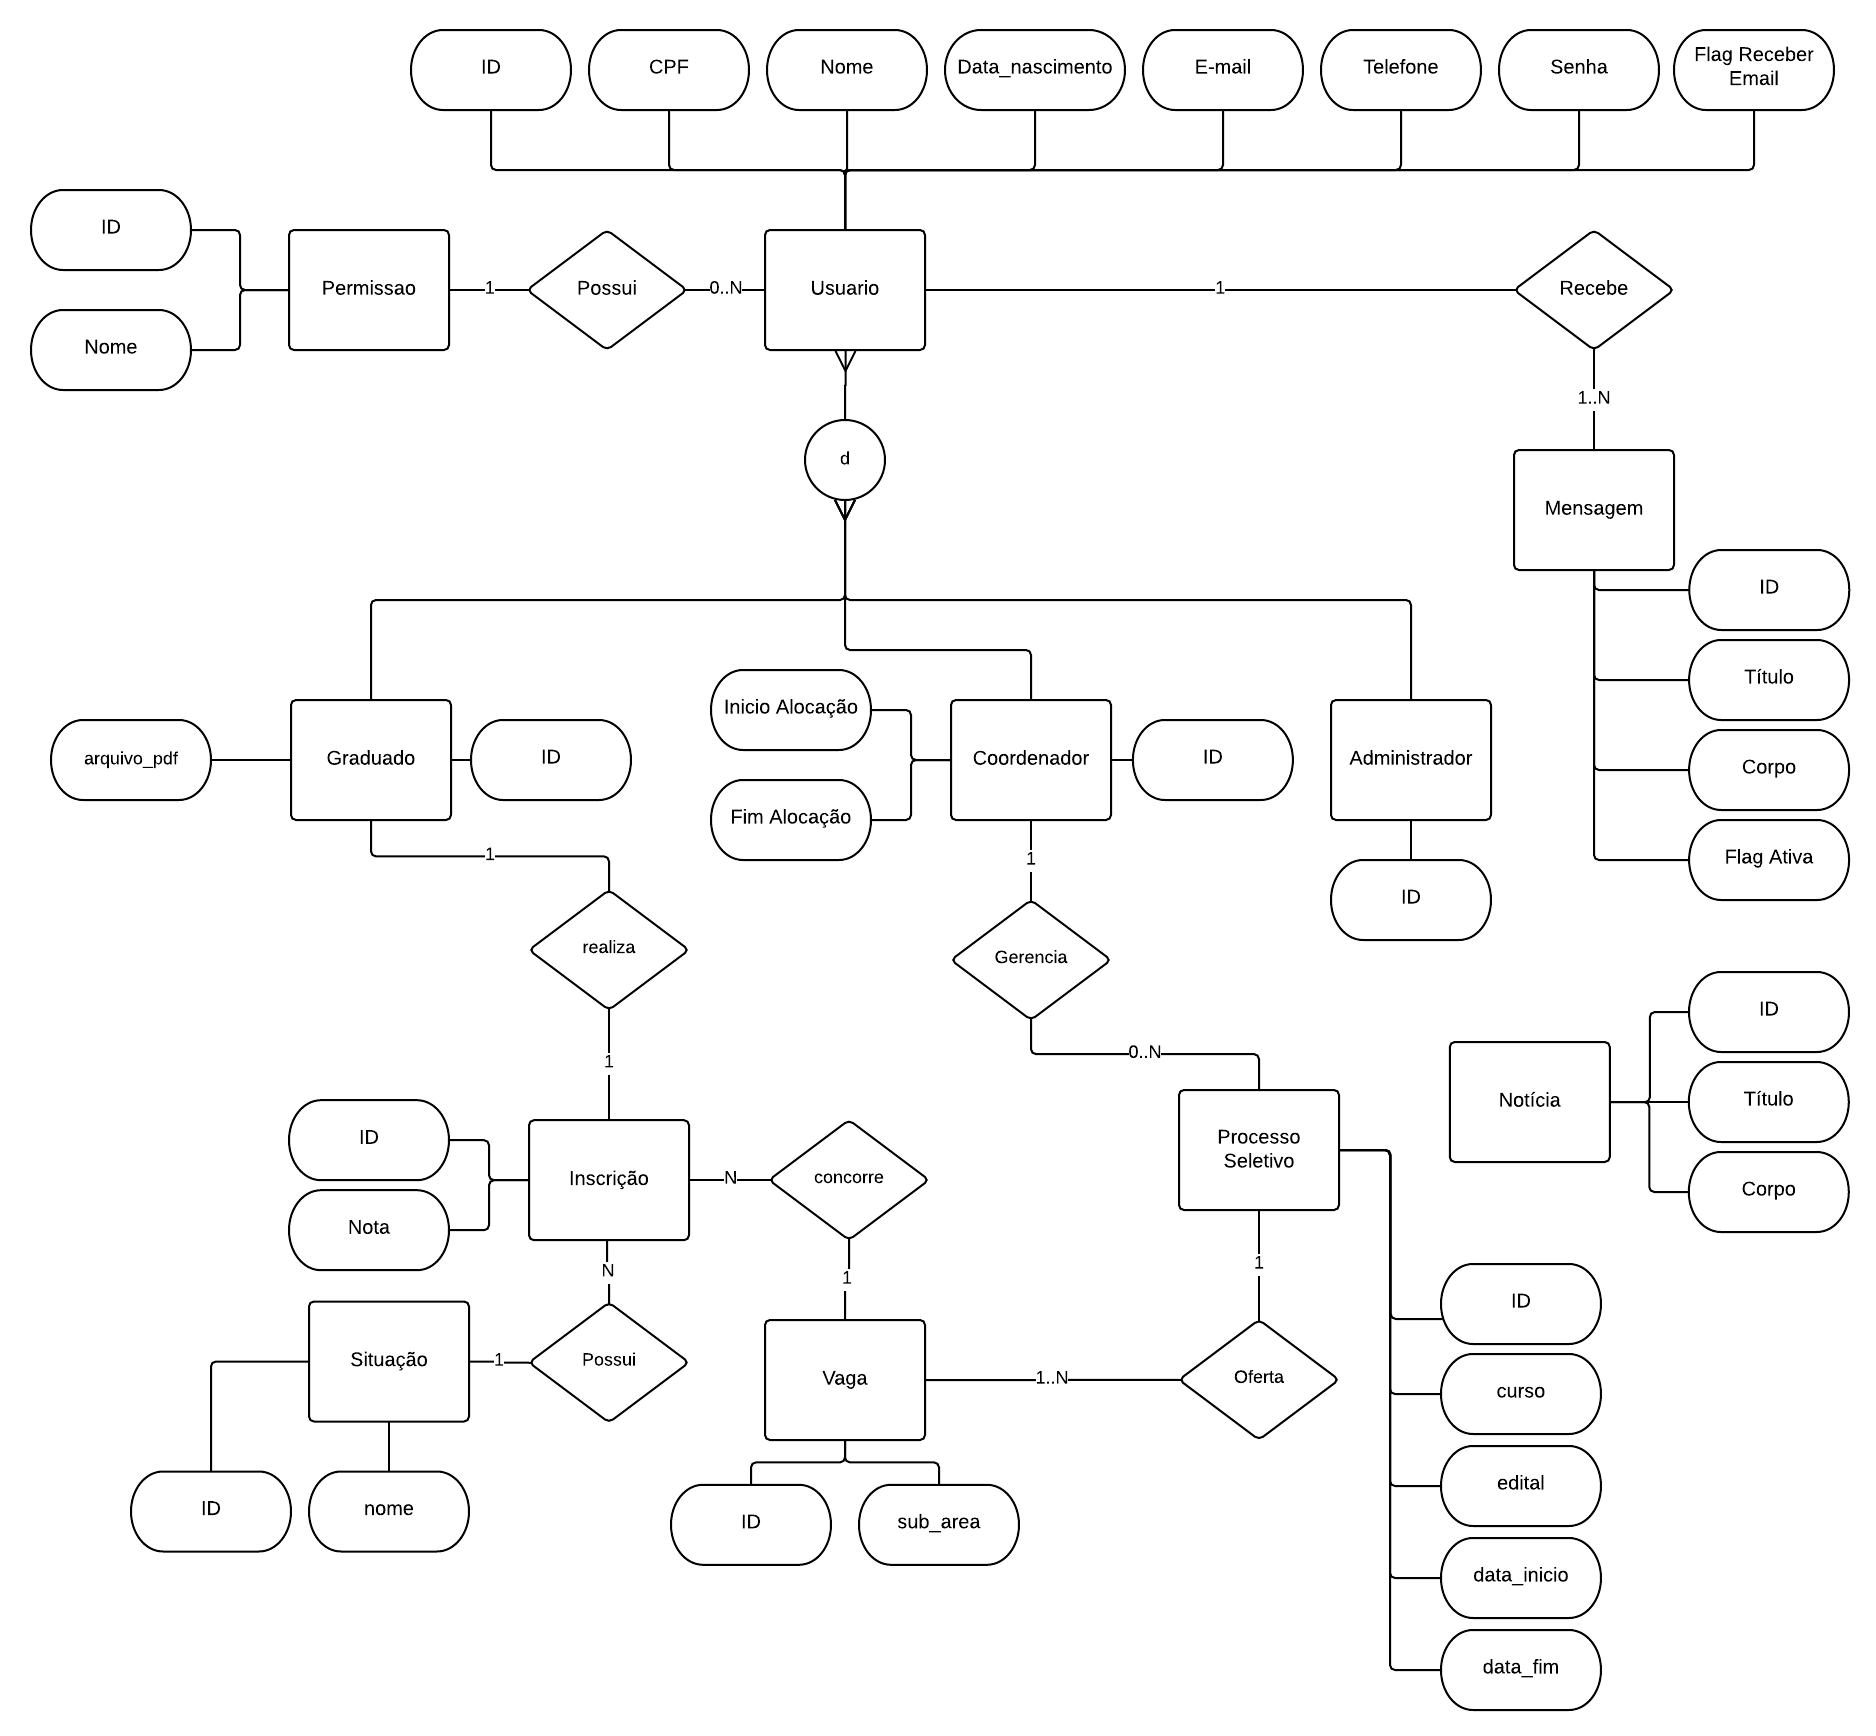
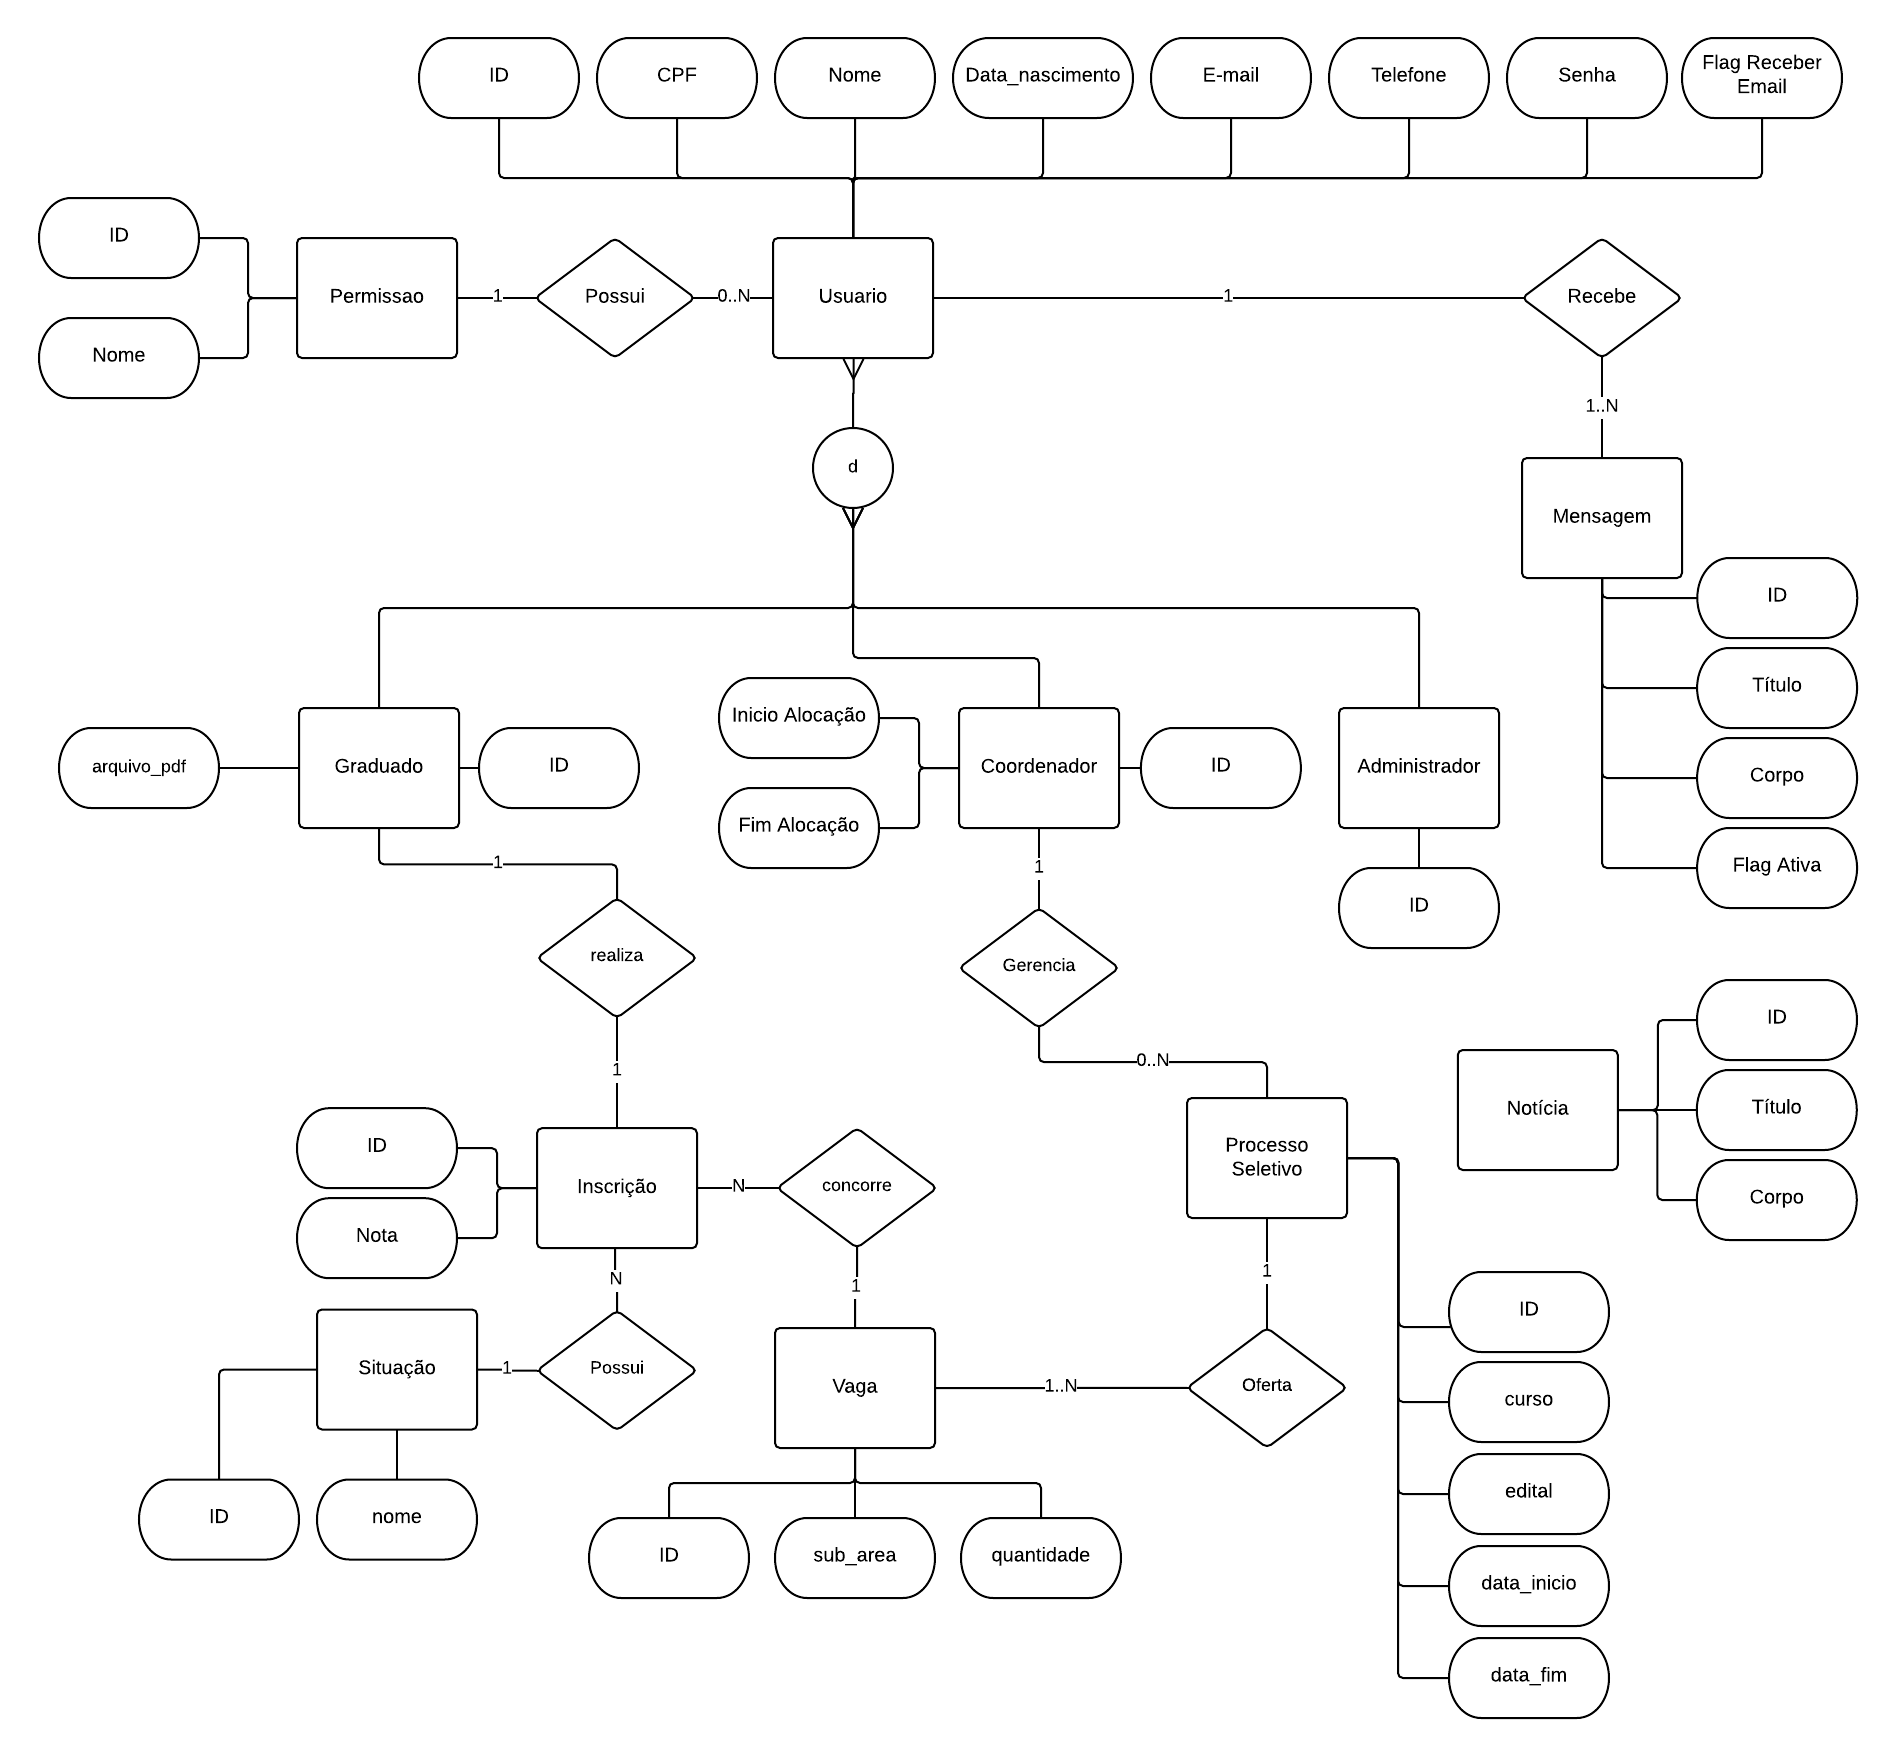
quantidade de vaga está na entidade vaga

diff --git a/src/main/java/model/Vaga.java b/src/main/java/model/Vaga.java
@@ -20,6 +20,7 @@ public class Vaga {
 	private int idvaga;
 	@Column(nullable=false)
 	private String sub_area;
+	private int quantidade;
 	
 	@ManyToOne
 	@JoinColumn(name="idprocesso")
@@ -55,5 +56,13 @@ public class Vaga {
 
 	public void setInscricao(List<Inscricao> inscricoes) {
 		this.inscricoes = inscricoes;
+	}
+
+	public int getQuantidade() {
+		return quantidade;
+	}
+
+	public void setQuantidade(int quantidade) {
+		this.quantidade = quantidade;
 	}
 }
